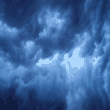
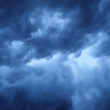
center crop no stretching

diff --git a/Images/ImageHelper.py b/Images/ImageHelper.py
@@ -10,7 +10,14 @@ class ImageHelper:
     @staticmethod
     def prepareImage(path, gridsize, wiggleroom):
         img = Image.open(path).convert("RGB")
-        small = img.resize((gridsize[0]+2*wiggleroom, gridsize[1]+2*wiggleroom), Image.Resampling.BOX)
-        quantized = small.quantize(colors=32).convert("RGB")
-        quantized.save("current.png", "PNG")
-        return np.asarray(quantized)
+        quantized = img.quantize(colors=48).convert("RGB")
+        scale = min(quantized.size[0] / (gridsize[0]+2*wiggleroom), quantized.size[1] / (gridsize[1]+2*wiggleroom))
+        newsize = ((gridsize[0]+2*wiggleroom)*scale, (gridsize[1]+2*wiggleroom)*scale)
+        cropped = quantized.crop((
+            (quantized.size[0]-newsize[0])/2,
+            (quantized.size[1]-newsize[1])/2,
+            newsize[0]+(quantized.size[0]-newsize[0])/2,
+            newsize[1]+(quantized.size[1]-newsize[1])/2))
+        small = cropped.resize((gridsize[0]+2*wiggleroom, gridsize[1]+2*wiggleroom), Image.Resampling.BOX)
+        small.save("current.png", "PNG")
+        return np.asarray(small)
